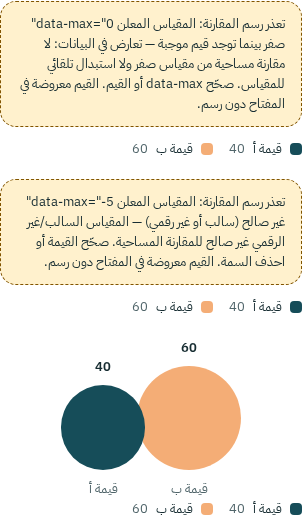
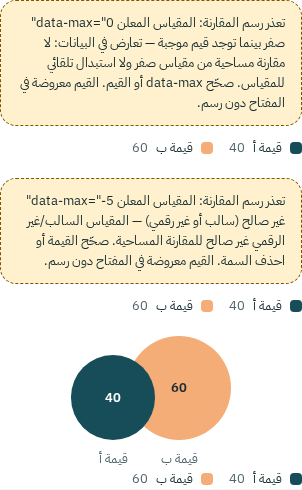
CAROUSEL: أدلة جولة إصلاح PR#5 من شجرة commit المصدر 474ed5b (بصمة الشجرة cdf98816 في رأس السجل) — 53/53 فحصًا من استنساخ نظيف مطابقًا لخرج الجذر حرفيًا عدا التوقيت (إضافات: A13b حارس الأسهم · A16b إفلات خارج viewport · A16c عمودي+blur · C0–C8 compact/توسعة · A19 قيم داخل الدوائر وتداخل بلا إخفاء رق

diff --git a/reviews/CAROUSEL/review.md b/reviews/CAROUSEL/review.md
@@ -1,9 +1,50 @@
 # مراجعة دفعة العارض — بطاقات ملخصات قابلة للسحب + مقارنة Packed-Circle
 
-الحالة: **DRAFT FOR REVIEW** — مسودة بانتظار مراجعة ChatGPT واعتماد قيس. لا اعتماد ذاتي ولا دمج ولا نشر.
-الفرع: `task/carousel-packed-circles` — Draft PR باتجاه `main` (دفعة مستقلة، بلا تبعية PR مفتوحة).
+الحالة: **DRAFT FOR REVIEW — REPAIRS IMPLEMENTED, AWAITING OWNER REVIEW** — مسودة بانتظار مراجعة ChatGPT واعتماد قيس. لا اعتماد ذاتي ولا دمج ولا نشر.
+الفرع: `task/carousel-packed-circles` — Draft PR#5 باتجاه `main` (دفعة مستقلة، بلا تبعية PR مفتوحة).
 المرجع: `docs/components/CAROUSEL-COMPONENT-BRIEF.md` — بداية العمل من أحدث `main` فعليًا `7f281c9e0fb104535490304bd4f31cab57e23908` (فُحص الرأس قبل الفرع وسُجّل).
-**commit مصدر الأدلة: `2940aa64bad5565dee1ee553e4adddefd6f2cc3c`** (بصمة الشجرة `277b828c8ad2a48ef45c9e3599e06e0a903c6dd3`) — ثُبّت قبل توليد الأدلة، وأُعيد توليد السجل واللقطات من شجرته النظيفة، وانتُسخ الخرج نفسه حرفيًا (عدا سطر التوقيت) من استنساخ نظيف عند الcommit نفسه.
+**commit مصدر الأدلة لجولة الإصلاح: `474ed5ba89e829234ae47dd3537414b05b92544f`** (بصمة الشجرة `cdf98816f573c9e943f26e25c59582ead8dbf688`) — ثُبّت قبل توليد الأدلة، وأُعيد توليد السجل واللقطات من استنساخ نظيف عند هذا الcommit، والخرج مطابق لخرج جذر المستودع حرفيًا عدا سطر التوقيت. (commit الجولة الأولى المؤرشف: `2940aa6` بشجرة `277b828c`.)
+
+---
+
+# جولة إصلاح PR#5 — تنفيذ وتوثيق (هذه الجولة)
+
+نطاق الجولة: إصلاح دورة حياة السحب · القيمة السالبة مع `data-display` · عدم اعتراض الأسهم داخل العناصر التفاعلية · البطاقات compact مع توسعة inline · الدوائر بقيم حقيقية داخلها وتداخل أوضح. **لم يُعد كتابة أي مكوّن من الصفر** — تعديلات موضعية على المصدر القائم، و`components/data/data.js` وآلية الـconfirm وكل مكوّنات B01–B07/S01 لم تُلمس.
+
+## جدول البنود المطلوب في جولة الإصلاح
+
+| البند | المطلوب/المشكلة | الملف | دليل التحقق | الحالة |
+| --- | --- | --- | --- | --- |
+| pointerup خارج viewport | لا تبقى حالة السحب عالقة (`is-dragging` والانتقال يعودان) | `components/carousel/carousel.js` (attachDragWindow/detachDragWindow على window بطور الالتقاط + blur + visibilitychange + capture عند قفل المحور فقط) | A16b فعلي: أثناء السحب `{dragging: true, dur: '0s'}` وبعد الإفلات خارج الـviewport `{dragging: false, dur: '0.18s'}` · A16c: العمودي يُلغي ذاتيًا وblur يوقف السحب · لقطة `27` | منفذ |
+| القيمة السالبة مع data-display | الرقم المنسق بعلامته + دلالة «سالب غير صالح للمساحة» معًا في الرسم والمفتاح | `components/data/packed-circle.js` (stateText) | A20b: النص «-3,566 — سالب غير صالح للمساحة» ظاهر ولا دائرة سالبة · فحص A17 في المثال المستقل · لقطة `28` | منفذ |
+| عناصر تفاعلية داخل البطاقة | لا اعتراض غير مقصود للأسهم داخل input/textarea/select/contenteditable/slider/summary/رابط/زر بطاقة — وتبقى الأسهم تعمل من سطح العارض وأزرار تحكمه وEnter/Space أصلية | `components/carousel/carousel.js` (isLocalArrowTarget/isCarouselControl/isCardContentButton في wireKeys) | A13b فعلي: داخل input/contenteditable/زر بطاقة: لا تبديل ولا preventDefault؛ من زر prev: ArrowLeft = تالي بالترتيب المنطقي ومع preventDefault | منفذ |
+| البطاقات compact | لا تمدد إجباري ولا فراغ رأسي غير مبرر؛ الارتفاع يتبع المحتوى | `components/carousel/carousel.css` (إزالة `min-height: 100%` + `align-items: flex-start` + حشو space-4) | C0: أطوال غير متساوية `[260/242/260]` والنشطة المغلقة 260px على 390 بلا قصّ · C8 على 320/390/430 وB5 على 768 · لقطات `20/18-*/19` | منفذ |
+| التوسعة inline | مغلق/موسع بزر صريح مع aria-expanded/aria-controls والطي عند الانتقال والسحب لا يوسّع | `components/carousel/` (آلية عامة: data-card-expand/data-card-details) + محتوى المستهلك في المعاينة | C1–C7: العقد الافتراضي، الفتح/الإغلاق من الزر (aria-expanded يتبدل فعليًا)، الطي عند الانتقال، السحب لا يغيّر الحالة، زر بطاقة غير النشطة ينقل دون توسعة، Tab يصل وEnter/Space يفتحان/يغلقان · لقطات `23/24/25/29/30` | منفذ |
+| الأرقام داخل الدوائر | قيم خام حقيقية داخل الدوائر بلا نسب مئوية إطلاقًا | `components/data/packed-circle.js` (القيمة داخل `.m-bubble__circle`) + `packed-circle.css` (توسيط وتباين آمن للفئات الفاتحة) | A19: `inCircle = ['7,532','3,566','3,333']` و`keyPct: false` · فحص A16 في المثال · لقطتان `16/26` | منفذ |
+| تداخل الدوائر | تداخل واضح (18px هندسيًا على الدوائر الكبيرة) دون إخفاء أي رقم ولا نص فوق نص | `packed-circle.css` (gap=0 فالتداخل حرفي `--packed-overlap`، أصغر فوق أكبر) | A19: تداخل فعلي بالزوجين (18/22.6px) وقياس تقاطع نص×دائرة = 0 مغطى | منفذ |
+
+## إضافات جولة الإصلاح — قرارات PROPOSED جديدة (تحتاج اعتماد المالك)
+
+```
+PROPOSED — بطاقات compact افتراضيًا مع توسعة inline عند الطلب (إزالة التمدد الإجباري، align-items: flex-start).
+PROPOSED — أرقام حقيقية داخل الدوائر؛ لا نسب مئوية داخل الدوائر.
+PROPOSED — حجم الدائرة يعكس القيمة الخام وفق مساحة ∝ قيمة والقطر ∝ √القيمة.
+```
+
+- **الفيديو المرجعي**: استُخدم — ضمن حدود توفره — كمرجع للسلوك والنسبة والتراص فقط (بطاقة عريضة بارتفاع مضغوط ونشطة واضحة بالمنتصف ومعاينة مجاورة وcontrols قريبة)، **لا لنسخ الهوية البصرية**: لا ألوان الفيديو ولا خلفيته ولا هوية Apple Watch ولا تفاصيله الحرفية ولا autoplay. (التصريح الأصلي أدناه: المرجعان لم يصلا إلى بيئة التنفيذ في الجولة الأولى، والاعتماد هنا على الوصف السلوكي المكتوب بالتكليف §6.)
+- **آلية التوسعة عامة لا تعرف المحتوى**: زر `[data-card-expand]` (type=button، aria-expanded، aria-controls، ملصقا `data-label-closed/open`) يبدّل `data-expanded` على الشريحة و`hidden` على `[data-card-details]` — الملخص المغلق HTML مقصود من المستهلك: **لا max-height ولا overflow:hidden ولا text-overflow ولا قصّ CSS في أي حالة**.
+- **حد الهدف البصري للموسعة**: بطاقة الدوائر الموسعة قاست ~469px على 390 — أعلى من الهدف الاسترشادي 280–360 لأن المحتوى الكامل (رسم ثلاث دوائر + ملاحظة) لا يُقصّ، والقاعدة الصارمة هي «لا قصّ» (المغلق بقي 260px ضمن الهدف). القرار النهائي لقيس.
+- `data-legend="off"` (اختياري موسوم): إخفاء مفتاح الرسم في البطاقات المضغوطة حيث القيم داخل الدوائر والتسميات تحتها — المفتاح يبقى افتراضيًا في بقية الحالات كمرجع قيم خام.
+
+## نتيجة فحوص جولة الإصلاح
+
+- **53/53 فحصًا ناجحًا** (كانت 38/38 قبل الجولة) — السجل: `reviews/CAROUSEL/verification.txt`، اللقطات الآن 36 من المصدر نفسه في `screenshots/` (حُذفت لقطة الجولة الأولى القديمة `15-financial-card` لكونها من تصميم ما قبل الإصلاح).
+- فحوص إلزامية جديدة أضيفت فعليًا: A13b (حارس الأسهم) · A16b (إفلات خارج viewport) · A16c (عمودي + blur) · C0–C8 (compact/توسعة) · A19 معاد (قيم داخل الدوائر + تقاطع = 0) · A20b (سالب مع data-display) · EX صار 20 فحصًا مدمجًا.
+- `node --check` على كل ملفات المصدر والمعاينة · `git diff --check` نظيف · MANIFEST محدّث.
+
+---
+
+# الجولة الأولى (الدفعة الأصلية) — للأرشيف
 
 ## تصريح المراجع المرفقة
 
